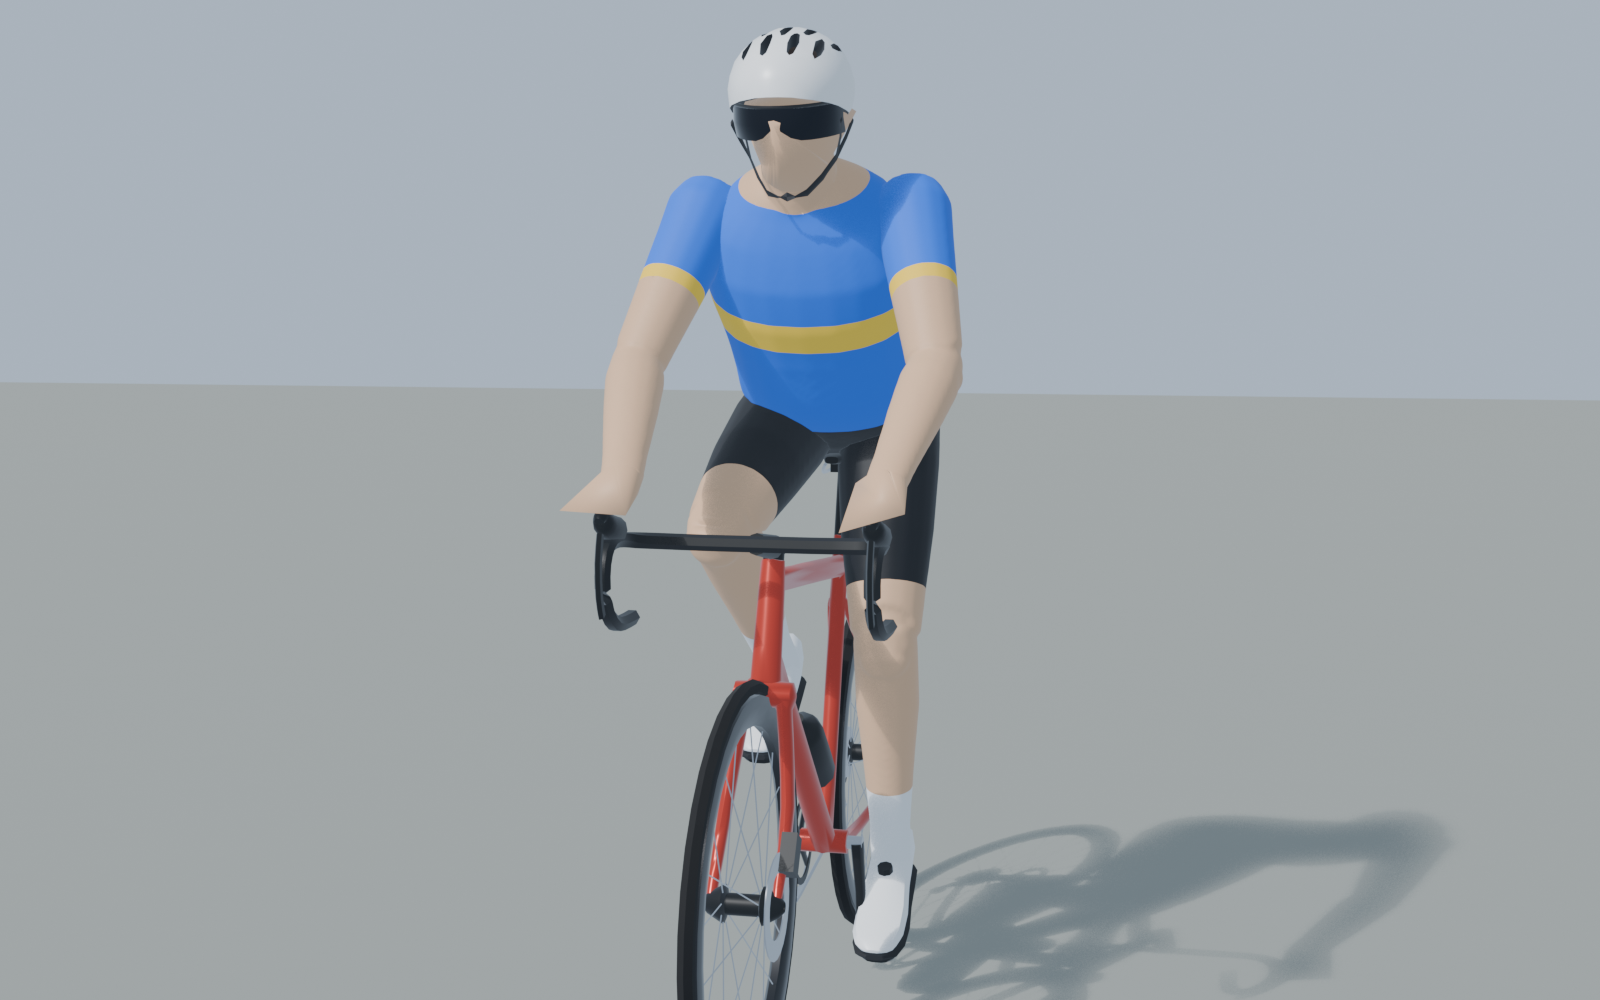
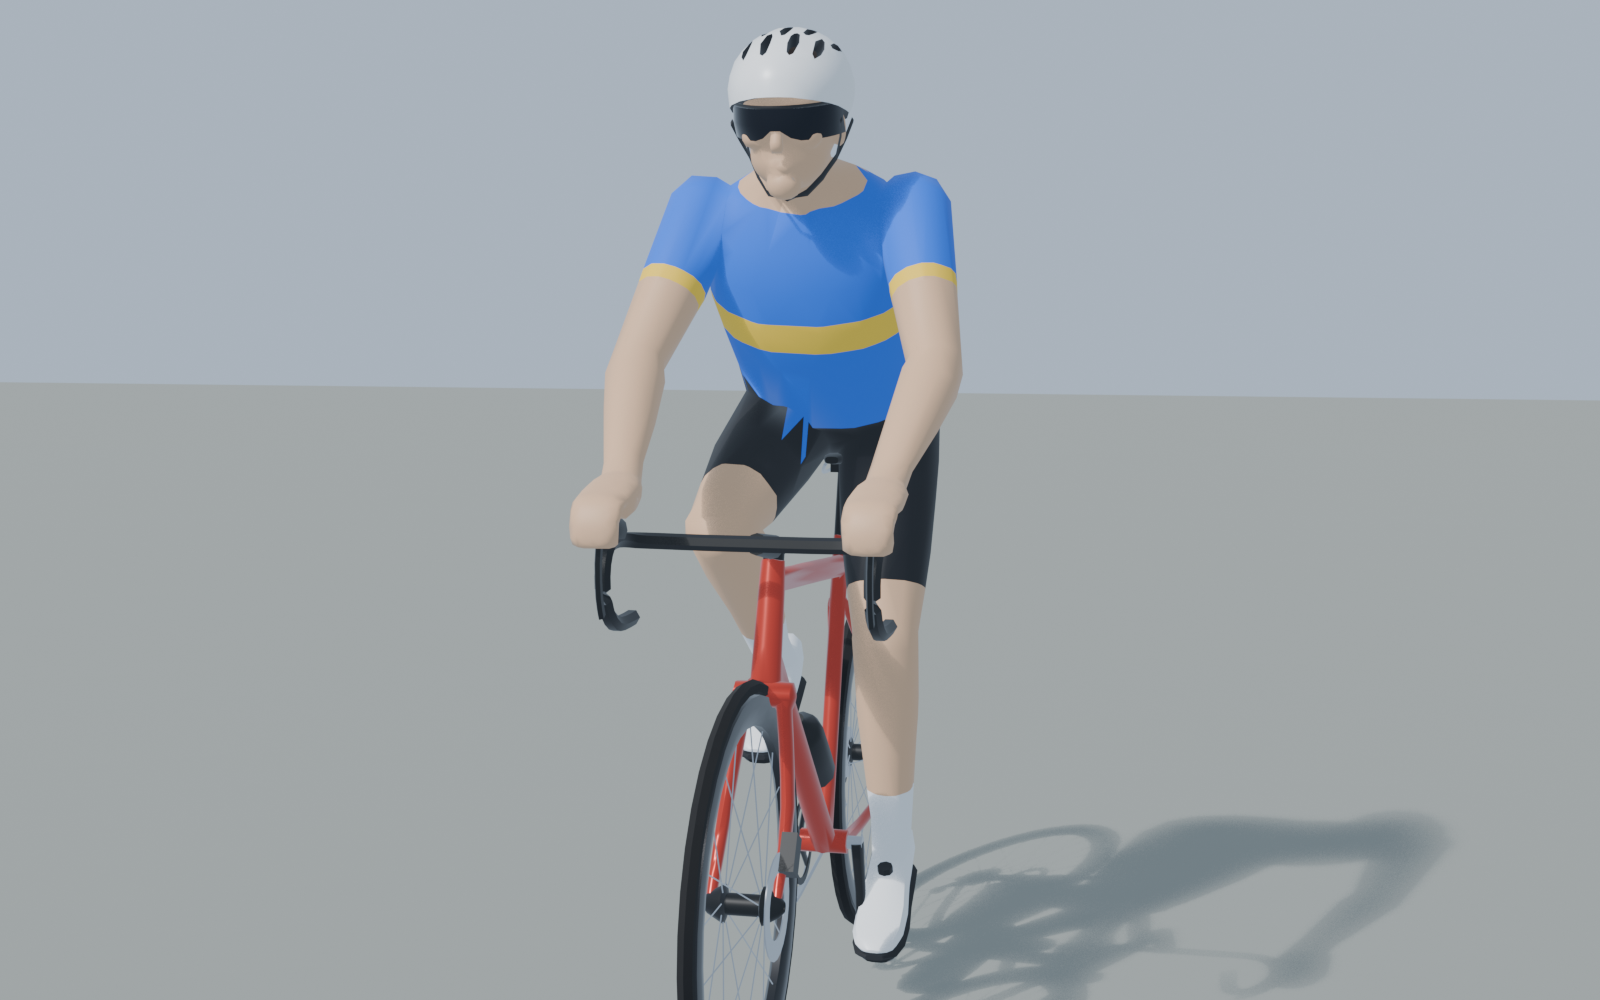
fix: on roule à droite (décalage latéral positif), télémétrie avec le décalage réel

diff --git a/apps/client/src/main.ts b/apps/client/src/main.ts
@@ -64,7 +64,7 @@ async function boot(): Promise<void> {
   ui.innerHTML = `<div class="loading">${t('loading')}</div>`;
   const scene = await loadScene(settings);
   const devices = createDeviceLayer();
-  const start = scene.track.positionAt(0, -1.2);
+  const start = scene.track.positionAt(0, 1.2);
   await scene.world.preload(new THREE.Vector3(start.x, start.y, start.z));
 
   // Plan d'attente derrière le menu : orbite lente autour du départ.
@@ -220,7 +220,7 @@ async function startRide(scene: Scene3D, s: Settings, input: InputSource, extras
   if (mp) {
     const net = mp.net;
     // Télémétrie à 10 Hz : puissance mesurée (ou virtuelle pour un invité), rapport, direction.
-    net.startTelemetry(() => ({ watts: ride.inputs.watts, cadence: ride.inputs.cadence, ...(ride.inputs.hr !== undefined ? { hr: ride.inputs.hr } : {}), gear: ride.gearIndex, steer: keyboard.steer }));
+    net.startTelemetry(() => ({ watts: ride.inputs.watts, cadence: ride.inputs.cadence, ...(ride.inputs.hr !== undefined ? { hr: ride.inputs.hr } : {}), gear: ride.gearIndex, steer: ride.lateral }));
     net.on('event', (ev) => {
       if (ev.kind === 'segmentEnd' && ev.riderId === net.selfId && !s.guest) {
         const seg = track.route.segments.find((x) => x.id === ev.segmentId);

diff --git a/apps/client/src/game/peloton.ts b/apps/client/src/game/peloton.ts
@@ -112,7 +112,7 @@ export class Peloton {
         color,
         // Départ groupé : en file indienne juste devant et derrière le joueur.
         state: createRiderState({ distM: startDistM + (i % 2 ? 1 : -1) * (2 + Math.floor(i / 2) * 2.2), speedMs: 0 }),
-        lateral: ((i % 3) - 1) * 0.9 - 0.8,
+        lateral: ((i % 3) - 1) * 0.9 + 1.0,
         ai: new AiRider({ id: `ai-${i}`, profile: PROFILES[i % PROFILES.length] as AiProfileName, ftpWatts: ftp, params, riderMassKg: massKg, seed: i * 7919, aggressiveness: 0.35 }),
         avatar,
         label,
@@ -183,7 +183,7 @@ export class Peloton {
       r.pose = r.poseCtl.update({ watts: out.watts, cadence: out.cadence, gradePercent: s.grade, ftpWatts: r.ftp, speedMs: r.state.speedMs }, dt);
       stepRider(r.state, { watts: r.watts, gradePercent: s.grade, params: r.ai.params, env, cdaFactor: 1 - r.draft }, dt);
       const half = this.track.route.roadWidthM / 2 - 0.5;
-      const targetLat = THREE.MathUtils.clamp((ahead?.lateral ?? -1) + out.lateralTargetM, -half, half);
+      const targetLat = THREE.MathUtils.clamp((ahead?.lateral ?? 1) + out.lateralTargetM, -half, half);
       r.lateral += (targetLat - r.lateral) * Math.min(1, dt * 0.8);
     });
     return factors[0] ?? 0;

diff --git a/apps/server/src/ride/simulation.ts b/apps/server/src/ride/simulation.ts
@@ -412,7 +412,7 @@ export class RideSimulation {
       const median = dists[Math.floor(dists.length / 2)]!;
       r.state.distM = median - 6;
       r.state.speedMs = this.riders.reduce((s, x) => s + x.state.speedMs, 0) / this.riders.length;
-      r.lateralM = r.lateralTarget = 0;
+      r.lateralM = r.lateralTarget = Math.min(1.2, this.halfRoad());
     }
     r.lap = this.lapOf(r.state.distM);
   }
@@ -676,7 +676,7 @@ export class RideSimulation {
   private aiLateral(r: SimRider, offset: number): number {
     const p = this.order.indexOf(r);
     const ahead = p > 0 ? this.order[p - 1] : undefined;
-    const base = ahead && ahead.state.distM - r.state.distM < 10 ? ahead.lateralM : 0;
+    const base = ahead && ahead.state.distM - r.state.distM < 10 ? ahead.lateralM : Math.min(1, this.halfRoad());
     const half = this.halfRoad();
     return Math.min(Math.max(base + offset, -half), half);
   }

diff --git a/apps/client/src/game/ghost.ts b/apps/client/src/game/ghost.ts
@@ -66,7 +66,7 @@ export class Ghost {
     const a = this.best.dist[i] ?? 0;
     const b = this.best.dist[i + 1] ?? a;
     const d = this.lapStartD + a + (b - a) * f;
-    const p = this.track.positionAt(d, 1.0, this.sample);
+    const p = this.track.positionAt(d, 0.2, this.sample);
     this.avatar.root.position.set(p.x, p.y + 0.06, p.z);
     this.avatar.root.rotation.set(0, Math.atan2(p.dirX, p.dirZ), 0);
     this.avatar.root.rotateX(-Math.atan(p.grade / 100));

diff --git a/packages/shared/src/net.ts b/packages/shared/src/net.ts
@@ -37,7 +37,7 @@ export interface TelemetryMsg {
   hr?: number;
   /** Rapport virtuel courant (indice 0–23). */
   gear: number;
-  /** Décalage latéral souhaité (direction au clavier / manette). */
+  /** Décalage latéral souhaité (m, positif = à droite dans le sens de marche ; voie de droite ≈ +1,2 m). */
   steer: number;
   /** Puissance virtuelle bornée pour un invité sans matériel. */
   guestThrottle?: number;

diff --git a/apps/client/src/game/ride.ts b/apps/client/src/game/ride.ts
@@ -53,7 +53,7 @@ export class RideSession {
   readonly params: RiderPhysicsParams;
   readonly gears: Gear[];
   gearIndex: number;
-  lateral = -1.2; // on roule à droite de l'axe (circulation à droite)
+  lateral = 1.2; // voie de droite (décalage positif = à droite dans le sens de marche)
   pose: 'seated' | 'standing' | 'coasting' = 'seated';
   inputs: RideInputs = { watts: 0, cadence: 0, steer: 0 };
   paused = false;

diff --git a/tools/blender/build_cyclist.py b/tools/blender/build_cyclist.py
@@ -71,6 +71,7 @@ FORE = 0.28
 
 LOD0_BODY_TRIS = 5600
 LOD1_RATIO = 0.25
+PROTECT_FACTOR = float(os.environ.get('AR_PF', '1.0'))
 
 
 # ---------------------------------------------------------------------------------------------
@@ -619,8 +620,10 @@ def label_vertices(vc, prims):
                 sd[m] = d[m]
                 ss[m] = (cum[i] + t[m] * seg[i]) / tot
         else:
-            q = (vc - p['c']) @ p['R'].T / p['radii']
-            sd = (np.linalg.norm(q, axis=1) - 1.0) * p['radii'].min()
+            q = (vc - p['c']) @ p['R'].T
+            k0 = np.linalg.norm(q / p['radii'], axis=1)
+            k1 = np.maximum(np.linalg.norm(q / p['radii'] ** 2, axis=1), 1e-9)
+            sd = k0 * (k0 - 1.0) / k1  # approximation classique de la distance à un ellipsoïde
             ss = np.zeros(N)
         m = sd < best
         best[m] = sd[m]
@@ -666,9 +669,6 @@ def in_torso_zone(r, region, c):
     if region.startswith('thigh'):
         d = r.side[region[-1]]
         return np.dot(c - d.hip, d.thigh_d) / THIGH < 0.12
-    if region.startswith('upper_arm'):
-        d = r.side[region[-1]]
-        return np.dot(c - d.shoulder, d.upper_d) / UPPER < SLEEVE[0]
     return False
 
 
@@ -708,7 +708,7 @@ def face_material(r, region, c):
         return 'sock' if np.dot(c - d.ankle, d.shin_d) > -SOCK_H else 'skin'
     if region.startswith('upper_arm'):
         p = np.dot(c - d.shoulder, d.upper_d) / UPPER
-        return 'jersey_accent' if p < SLEEVE[1] else 'skin'
+        return 'jersey' if p < SLEEVE[0] else 'jersey_accent' if p < SLEEVE[1] else 'skin'
     return 'skin'
 
 
@@ -821,12 +821,16 @@ def finalize_body(r, src, name, target_tris, prims):
     # Détail préservé sur le visage et les mains (vus de près).
     vc0 = to_client_arr(np.array([v.co[:] for v in ob.data.vertices]))
     reg0, _ = label_vertices(vc0, prims)
+    # (Blender : poids faible = effondrement coûteux ; poids nul = jamais décimé.)
     vg = ob.vertex_groups.new(name='protect')
     for i, rg in enumerate(reg0):
-        w = 1.0 if rg == 'head' else 0.5 if rg.startswith('hand') else 0.0
-        if w:
-            vg.add([i], w, 'REPLACE')
-    decimate_to(ob, target_tris, 'protect')
+        w = 0.5 if rg == 'head' else 0.7 if rg.startswith('hand') else 1.0
+        vg.add([i], w, 'REPLACE')
+    decimate_to(ob, target_tris, 'protect', PROTECT_FACTOR)
+    vc1 = to_client_arr(np.array([v.co[:] for v in ob.data.vertices]))
+    reg1, _ = label_vertices(vc1, prims)
+    print('DEBUG smooth', sum(p.use_smooth for p in ob.data.polygons), len(ob.data.polygons))
+    print('DEBUG head verts', name, int((reg0 == 'head').sum()), '->', int((reg1 == 'head').sum()), 'total', len(vc1))
     me = ob.data
     # Coupes nettes aux ourlets (maillot, cuissard, manches, chaussettes, bande d'accent, col).
     bm = bmesh.new()
